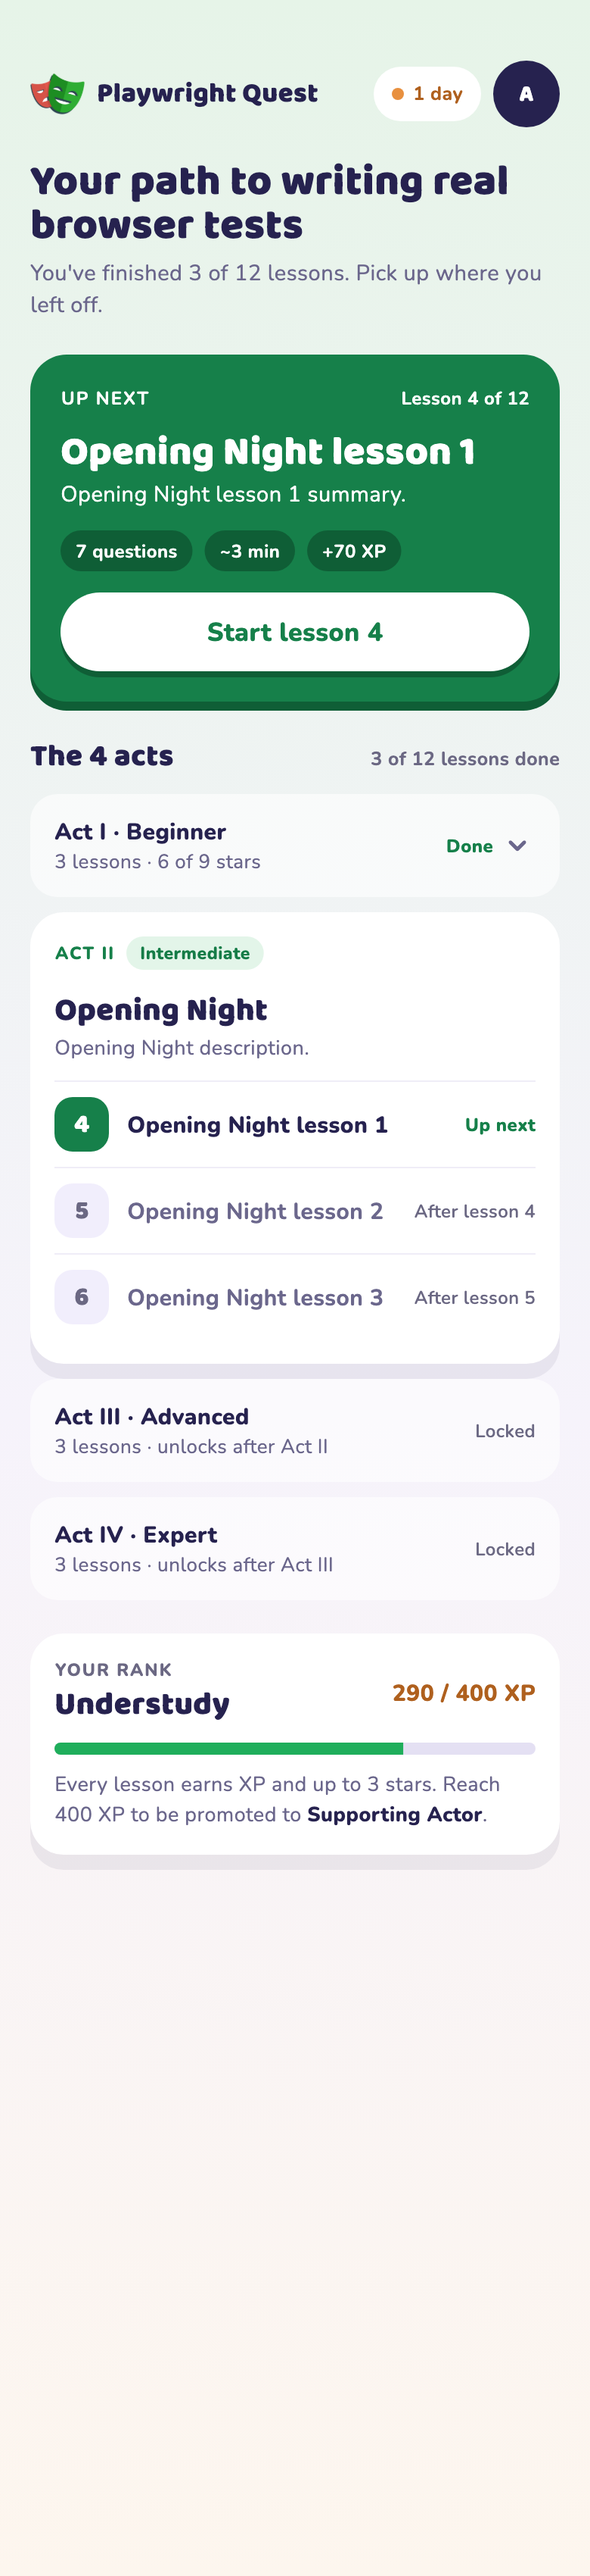
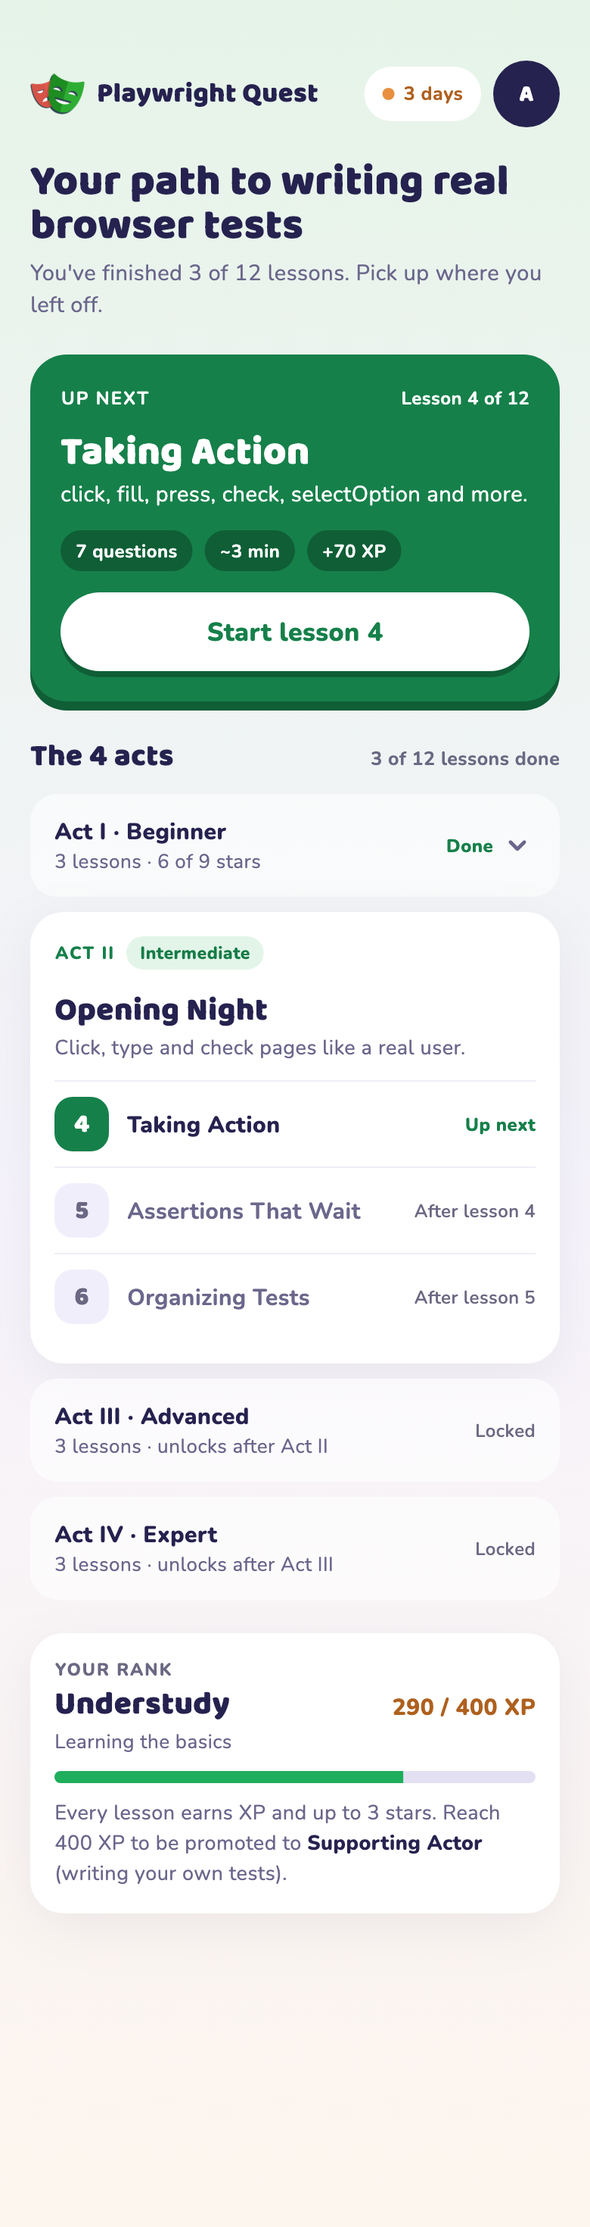
Add README, screenshots and passwords template
- README in the style of zakat.sol: what the app does, getting started,
  passwordless sign-in and how it's built
- Re-rendered home screenshots with the real curriculum
- config/passwords.yaml.example so fresh clones can start the server

diff --git a/README.md b/README.md
@@ -1,0 +1,109 @@
+<div align="center">
+
+<img src="playwright_app_flutter/assets/images/logo.png" alt="Playwright Quest" width="120" />
+
+# Playwright Quest
+
+### From first test to pro
+
+Bite-sized lessons and quizzes that teach you Playwright, one scene at a time.
+No automation experience needed.
+
+</div>
+
+---
+
+## What it does
+
+Playwright is the tool teams use to test websites automatically: a script opens
+a real browser, clicks and types like a person would, and checks the page did
+the right thing. It is powerful, but the first steps can feel like a lot.
+
+Playwright Quest breaks it into a path you can finish on the bus:
+
+- **Teaches** one idea per lesson with a short, plain-language explanation and
+  a real code example.
+- **Quizzes** you straight after, with instant feedback that explains *why*
+  each answer is right, including fill-in-the-blank questions on real test code.
+- **Levels you up** through 12 lessons in 4 acts: Beginner, Intermediate,
+  Advanced and Expert.
+- **Rewards** you with up to 3 stars per lesson, XP, a daily streak and ranks
+  that go from Stagehand (just getting started) to Playwright (the top rank).
+- **Remembers** your progress on the server, so you can pick up on any device.
+
+Everything you learn maps to code you will actually write: locators, web-first
+assertions, fixtures, network mocking, login state, CI and more.
+
+## Getting started
+
+You need [Flutter](https://docs.flutter.dev/get-started/install) 3.44+ and the
+Serverpod CLI.
+
+```bash
+dart pub global activate serverpod_cli 4.0.0
+cd playwright_app_server
+cp config/passwords.yaml.example config/passwords.yaml
+serverpod start
+```
+
+Fill `config/passwords.yaml` with your own random values first (for example
+from `openssl rand -base64 32`). `serverpod start` runs the server, applies
+the database migrations and launches the app. Then open http://localhost:9998.
+
+To sign in, enter any email. While developing, no email is sent: the 6-digit
+code appears in the `serverpod start` terminal.
+
+Run the tests with `dart test` in `playwright_app_server` and `flutter test`
+in `playwright_app_flutter`.
+
+---
+
+<div align="center">
+
+<img src="docs/screens/home-first-time.png" alt="Home screen for a new player" width="280" />
+&nbsp;&nbsp;
+<img src="docs/screens/home-act-one-done.png" alt="Home screen after finishing Act I" width="280" />
+
+</div>
+
+### Sign in without a password
+
+Nobody wants to invent a password to try a learning app. Playwright Quest signs
+you in with a one-time code instead: enter your email, type the 6 digits we
+send you, and you are in. The same step creates your account the first time.
+
+The codes are built to be safe:
+
+- Only a keyed hash of each code is stored, never the code itself.
+- A code works once, expires after 10 minutes and is cancelled after 5 wrong
+  tries.
+- Asking for a new code is limited to once every 30 seconds.
+- The screen looks the same whether or not an account exists, so it never
+  reveals who has signed up.
+
+Answers are graded on the server too, so stars and XP reflect what you actually
+got right.
+
+---
+
+## How it's built
+
+- **[Serverpod](https://serverpod.dev)** runs the backend: the curriculum, the
+  game rules, progress and sign-in, all in Dart with a PostgreSQL database.
+- **[Flutter](https://flutter.dev)** runs the app, designed mobile-first and
+  served on the web during development.
+
+```
+playwright_app_server/   Serverpod backend: lessons, game rules, sign-in, tests
+playwright_app_flutter/  Flutter app
+playwright_app_client/   Generated client (do not edit by hand)
+```
+
+The lessons live in
+[`curriculum.dart`](playwright_app_server/lib/src/quiz/content/curriculum.dart),
+so adding or editing a question is a one-file change, and a test checks the
+content for mistakes.
+
+<sub>Playwright Quest is an independent learning project and is not affiliated
+with or endorsed by Microsoft or the Playwright project. The Playwright name
+and logo belong to their owners.</sub>
